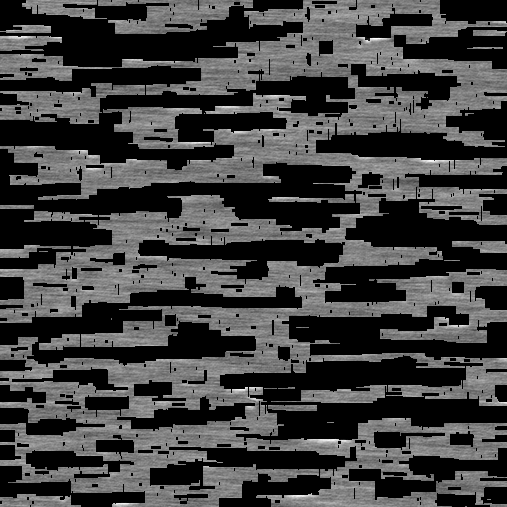
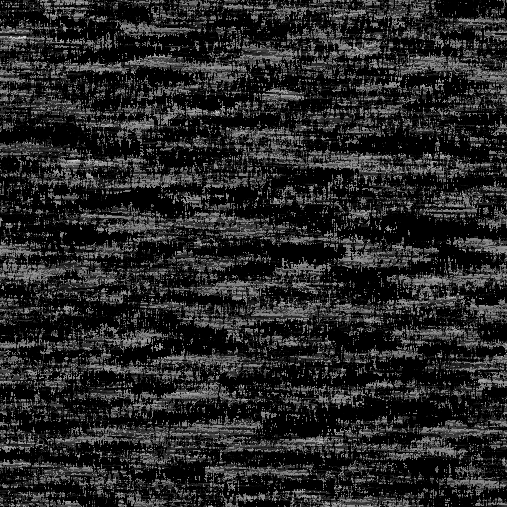
fix: drop binary canalize — continuous horizontal groove shaping
Binarizing HB output punched solid black rectangles through the tile.
Replace with horizontal maximum_filter on continuous depth fields; lower
valley cut strengths so wood stays visible between grooves.

diff --git a/scripts/wood-grain-fourier-synthesis.py b/scripts/wood-grain-fourier-synthesis.py
@@ -26,9 +26,9 @@ STAGES:
   2. Valley layers -- fine + coarse depth from vertical ridge envelope;
                      coarse = deep envelope minus fine (big fissures only).
   3. Feature scale -- optional spectrum zoom per layer (native = 1.0).
-  4. Heeger-Bergen -- match spectrum + sparse depth histogram per layer.
-  5. Canalize     -- threshold HB placement, bridge gaps along grain, flat floor
-                     bands (stops spray-can stipple).
+  4. Heeger-Bergen -- match spectrum + elongated depth histogram per layer.
+  5. Shape grooves -- horizontal max-pool on continuous depth (flat floors,
+                     grain direction; never binarize to black rectangles).
   6. Directional rim -- vertical gradient of combined valley depth.
   7. Patchy rim   -- thresholded low-frequency mask on the rim.
   8. Composite    -- height map: neutral + grain ripple - valley cuts + rim.
@@ -45,7 +45,7 @@ from pathlib import Path
 
 import numpy as np
 from PIL import Image
-from scipy.ndimage import gaussian_filter, grey_closing, grey_dilation, zoom
+from scipy.ndimage import gaussian_filter, grey_dilation, maximum_filter, zoom
 
 # ---- tuned parameters (see STUDY-032) ----
 FINE_VALLEY_RADIUS = 7         # vertical ridge envelope for fine checking (px)
@@ -54,19 +54,17 @@ SPEC_SMOOTH_SIGMA = 2.5        # smooth measured spectra before synthesis
 FEATURE_SCALE = 1.0            # native scale (9.0 was bubbly blobs — 2026-08-22)
 COARSE_FEATURE_SCALE = 1.0
 ITERATIONS = 6                 # Heeger-Bergen rounds per valley layer
-FINE_VALLEY_STRENGTH = 0.72    # how deep fine grooves cut the height map
-COARSE_VALLEY_STRENGTH = 0.95  # big fissures — visible but not black holes
-FINE_VALLEY_FLOOR = 0.10       # sharpen: discard shallow noise
-FINE_VALLEY_POWER = 1.35       # lower power — less stipple before canalize
-COARSE_VALLEY_FLOOR = 0.06
-COARSE_VALLEY_POWER = 1.25
-FINE_VALLEY_CONNECT = 20       # bridge gaps along grain (px)
-FINE_VALLEY_BAND = 2           # flat groove thickness (px tall)
-COARSE_VALLEY_CONNECT = 36
-COARSE_VALLEY_BAND = 4
-COARSE_GROOVE_QUANTILE = 0.97  # coarse layer: slightly more ink
-GROOVE_THRESHOLD = 0.35        # floor for adaptive quantile threshold
-GROOVE_QUANTILE = 0.98         # sparse seeds — HB stipple is mostly sub-threshold
+FINE_VALLEY_STRENGTH = 0.52    # depth cut — keep wood visible between grooves
+COARSE_VALLEY_STRENGTH = 0.68
+FINE_VALLEY_FLOOR = 0.12
+FINE_VALLEY_POWER = 1.45
+COARSE_VALLEY_FLOOR = 0.08
+COARSE_VALLEY_POWER = 1.35
+FINE_RUN_W = 22                # horizontal max-pool along grain (px)
+FINE_BAND_H = 2                # groove height (px)
+COARSE_RUN_W = 48
+COARSE_BAND_H = 5
+GROOVE_ACTIVE = 0.10           # min normalized depth before elongation applies
 RIM_PRE_BLUR = 2.0             # rim only — valleys stay sharp
 RIM_STRENGTH = 0.6
 TOP_FRACTION = 0.2
@@ -130,48 +128,36 @@ def sharpen_valleys(field: np.ndarray, floor: float, power: float) -> np.ndarray
     return scaled**power
 
 
-def flat_band(mask: np.ndarray, band_px: int) -> np.ndarray:
-    """Thicken horizontal grooves in-place — flat floor, no vertical morph merge."""
-    band = max(1, int(band_px))
-    if band == 1:
-        return mask
-    out = mask.copy()
-    for k in range(1, band):
-        out[k:] |= mask[:-k]
-        out[:-k] |= mask[k:]
-    return out
+def elongate_grooves(depth: np.ndarray, run_w: int, band_h: int) -> np.ndarray:
+    """Continuous horizontal max-pool — flat groove floors, grain direction.
+
+    Binarizing grooves (canalize) punched black rectangles through the tile.
+    This stays in [0, 1] depth space: max along horizontal windows bridges HB
+    stipple into elongated plateaus without voiding the whole surface.
+    """
+    peak = depth.max()
+    if peak <= 0:
+        return depth
+    norm = depth / peak
+    run_w = max(3, int(run_w) | 1)
+    band_h = max(1, int(band_h))
+    pooled = maximum_filter(norm, size=(band_h, run_w), mode="nearest")
+    active = norm >= GROOVE_ACTIVE
+    out = np.where(active, pooled, 0.0)
+    peak2 = out.max()
+    return out / peak2 if peak2 > 0 else out
 
 
-def canalize_valleys(
+def shape_grooves(
     field: np.ndarray,
     floor: float,
     power: float,
-    connect_px: int,
-    band_px: int,
-    groove_quantile: float = GROOVE_QUANTILE,
+    run_w: int,
+    band_h: int,
 ) -> np.ndarray:
-    """Horizontal grooves with flat floors — not spray-can stipple.
-
-    HB + sharpen alone leaves isolated spikes. Real checking is elongated:
-    bridge gaps along the grain, cap vertical thickness, then fill each groove
-    band to uniform depth (flat valley floor).
-    """
-    norm = sharpen_valleys(field, floor, power)
-    peak = norm.max()
-    if peak <= 0:
-        return norm
-    norm = norm / peak
-    positives = norm[norm > 1e-6]
-    thr = GROOVE_THRESHOLD
-    if positives.size:
-        thr = max(thr, float(np.quantile(positives, groove_quantile)))
-    groove = norm >= thr
-
-    connect = max(3, int(connect_px) | 1)
-    groove = grey_closing(groove.astype(np.uint8), structure=np.ones((1, connect), dtype=bool)) > 0
-    groove = flat_band(groove, band_px)
-
-    return groove.astype(np.float32)
+    """Sharpen then elongate — continuous depth, not a boolean mask."""
+    sharpened = sharpen_valleys(field, floor, power)
+    return elongate_grooves(sharpened, run_w, band_h)
 
 
 def synthesize_valley_field(
@@ -179,16 +165,19 @@ def synthesize_valley_field(
     win: np.ndarray,
     feature_scale: float,
     rng: np.random.Generator,
+    run_w: int,
+    band_h: int,
 ) -> np.ndarray:
-    """Heeger–Bergen placement + sparsity from measured valley depth."""
+    """Heeger–Bergen placement + sparsity from measured, elongated valley depth."""
     h, w = valley_real.shape
-    valley_c = valley_real - valley_real.mean()
+    valley_model = elongate_grooves(valley_real, run_w, band_h)
+    valley_c = valley_model - valley_model.mean()
     spec_c = np.fft.fft2(valley_c * win)
     mag_c_shifted = gaussian_filter(np.fft.fftshift(np.abs(spec_c)), sigma=SPEC_SMOOTH_SIGMA)
     mag_c_shifted = scale_spectrum(mag_c_shifted, feature_scale)
     target_mag = np.fft.ifftshift(mag_c_shifted)
     target_mag[0, 0] = 0.0
-    target_sorted = np.sort(valley_real.ravel())
+    target_sorted = np.sort(valley_model.ravel())
 
     cur = rng.normal(size=(h, w))
     for _ in range(ITERATIONS):
@@ -225,20 +214,17 @@ def synthesize(input_path: Path, name: str, out_dir: Path) -> None:
 
     # 2–5. synthesize valley depth layers (fine checking + coarse fissures)
     valley_fine_real, valley_coarse_real = extract_valley_layers(height)
-    valley_fine = synthesize_valley_field(valley_fine_real, win, FEATURE_SCALE, rng_fine)
+    valley_fine = synthesize_valley_field(
+        valley_fine_real, win, FEATURE_SCALE, rng_fine, FINE_RUN_W, FINE_BAND_H
+    )
     valley_coarse = synthesize_valley_field(
-        valley_coarse_real, win, COARSE_FEATURE_SCALE, rng_coarse
+        valley_coarse_real, win, COARSE_FEATURE_SCALE, rng_coarse, COARSE_RUN_W, COARSE_BAND_H
     )
-    valley_fine = canalize_valleys(
-        valley_fine, FINE_VALLEY_FLOOR, FINE_VALLEY_POWER, FINE_VALLEY_CONNECT, FINE_VALLEY_BAND
+    valley_fine = shape_grooves(
+        valley_fine, FINE_VALLEY_FLOOR, FINE_VALLEY_POWER, FINE_RUN_W, FINE_BAND_H
     )
-    valley_coarse = canalize_valleys(
-        valley_coarse,
-        COARSE_VALLEY_FLOOR,
-        COARSE_VALLEY_POWER,
-        COARSE_VALLEY_CONNECT,
-        COARSE_VALLEY_BAND,
-        COARSE_GROOVE_QUANTILE,
+    valley_coarse = shape_grooves(
+        valley_coarse, COARSE_VALLEY_FLOOR, COARSE_VALLEY_POWER, COARSE_RUN_W, COARSE_BAND_H
     )
     valley_combined = np.clip(valley_fine + valley_coarse, 0, 1)
 
